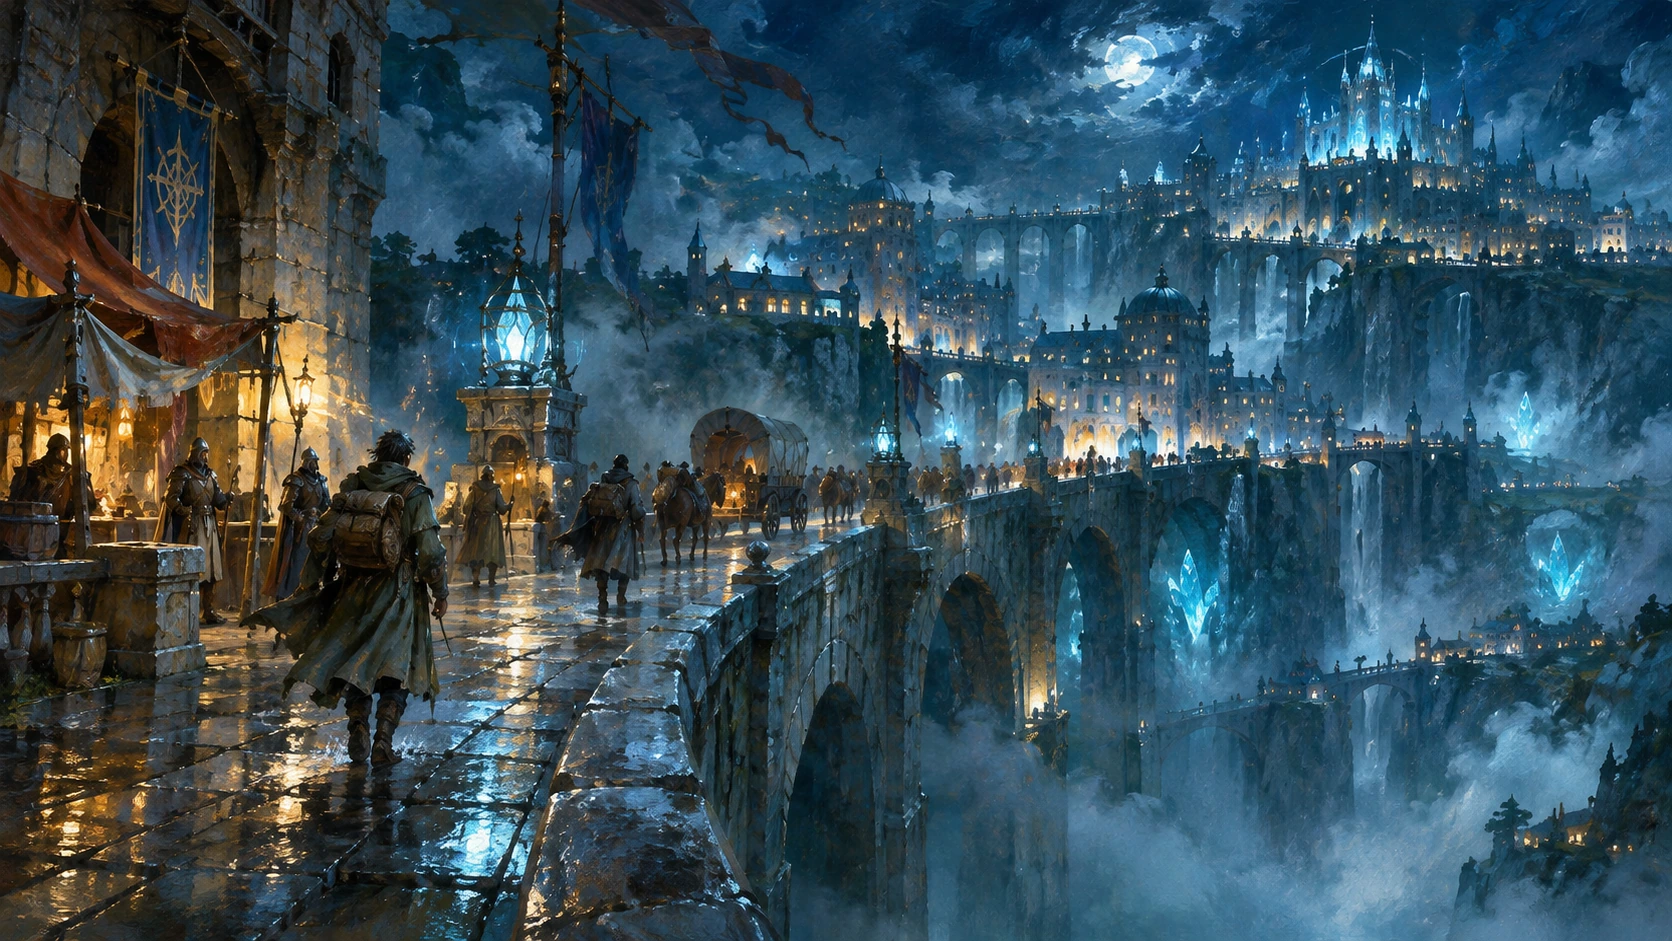
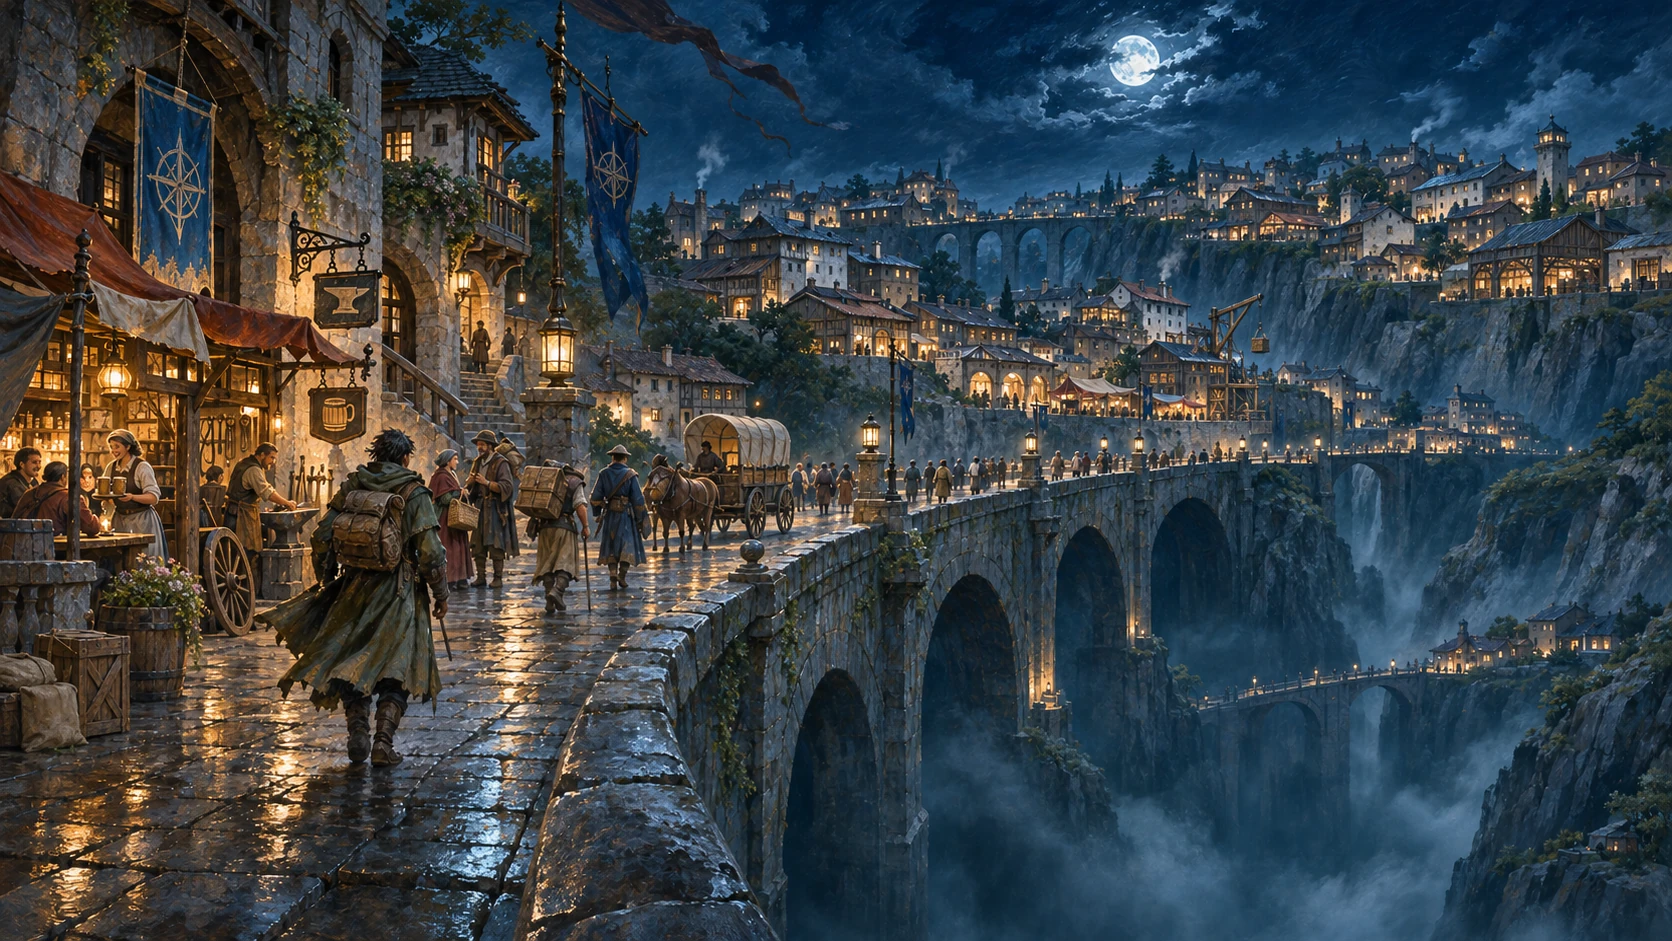
大断裂の街を、暮らしが見える同じ構図の昼夜対に描き直す

diff --git a/index.html b/index.html
@@ -46,7 +46,7 @@
 <div id="home-view" class="film-home">
 <div class="film-sequence"><div class="film-stage">
 <section class="film-frame film-montage-shot film-city-title" id="opening" data-film-scene="自由迷宮都市ルオスエン" tabindex="-1" aria-labelledby="film-opening-title">
-  <img class="film-image" src="assets/ruosuen-street-night-oil.webp" width="1672" height="941" alt="橋と街並み、魔導灯が裂谷の奥へ連なる自由迷宮都市ルオスエンの全景" fetchpriority="high" decoding="async">
+  <img class="film-image" src="assets/ruosuen-street-night-oil.webp" width="1672" height="941" alt="大断裂の谷を渡る夜の石橋。店先の灯り、旅人と荷車の往来、その先に幾世代もの建物が重なるルオスエン" fetchpriority="high" decoding="async">
   <div class="film-shot-shade" aria-hidden="true"></div>
   <div class="film-caption container" data-film-caption>
     <h1 class="film-title" id="film-opening-title"><span class="city-title-kind">自由迷宮都市</span><span class="city-title-name">ルオスエン</span></h1>

diff --git a/DESIGN.md b/DESIGN.md
@@ -215,6 +215,18 @@ Last revised: 2026-11-17
 
 ローカルChromiumの1440・390・320px幅で5つの短い場面と通常の縦読みを確認。1440・390px幅では、実際のスクロール距離が導入0.35倍・各フック0.5倍であること、12場面の順序、字幕、直接リンク、前後操作、作成ガイドへの遷移と既存の履歴操作をブラウザーテストで検証して成功。場面進行と距離変換の7テスト、構文・原稿参照検査も成功。実機スマートフォンは未検証。
 
+## 大断裂の街を同じ視点の昼夜で描く（2026-11-16）
+
+作者指定により、冒頭の夜景と「世界を知る」最終景を同じ視点・建物配置の昼夜の対へ更新した。川港は画面に含めず、従来の近景の街路から石橋、谷と奥の街並みへ視線が抜ける構図を維持する。
+
+- `assets/ruosuen-street-night-oil.webp`：崖や街の露出した魔石、巨大な王城、均一な白い建築を見直す。商店・宿・工房と多世代の建物、荷車や人の往来を、月光と窓・灯具の灯りで描く。高台は複数の建築が集まる街区とする。
+- `assets/reuna-turn-10.webp`：修正後の夜景を参照して制作した現在の昼景。橋、建物、岩壁、視点を揃え、自然光で暮らしや建物の質感を見せる。歴史上の別時代やCSSによる色変換ではない。
+- いずれも1672×941の原色WebP。絵は都市像の表現であり、未決の建築様式、建物の所属、街区の精密な地理を新たに確定しない。川港の設定や本文は維持する。
+
+原画と制作指示の要旨は[制作記録](notes/都市の昼夜対_画像制作_2026-11-16.md)を参照。
+
+検証：原稿・画像参照、JavaScript構文、場面進行テストが成功。ローカルChromiumの1440・390px幅で冒頭と最終景を目視し、昼夜の構図対応、画像の実寸・原色表示・横はみ出しなしを確認。既存の9場面・世界史10景・4章・履歴復元、動きを減らす設定、JavaScriptなしのブラウザ回帰も成功。外部フォントは明示的なシステム代替書体で検証。実機端末は未検証。
+
 ## Visual direction
 
 **The Uncharted World / 未踏の世界への招待状**. Reference: the theatrical urgency and strong character of Seikaisha's original *Red Dragon* special website, not its copyrighted artwork or layout.

diff --git a/notes/都市の昼夜対_画像制作_2026-11-16.md b/notes/都市の昼夜対_画像制作_2026-11-16.md
@@ -1,0 +1,19 @@
+# 大断裂の谷と街 — 昼夜対の画像制作
+
+2026-11-16。作者の指示に基づき、組み込みのimage_genで制作。原画は生成時の作業領域に保持し、Pagesには元の色と寸法を保ったWebPを配信する。建築・旗・人物・精密な街区配置は絵づくりの表現であり、未決の世界設定を採用する記録ではない。
+
+## 夜景
+
+- 配信：`assets/ruosuen-street-night-oil.webp`（1672×941）
+- 原画：`/workspace/generated_images/exec-caa5bb53-398d-4c3c-b7b2-3717d342960f.png`
+- 参照：変更前の`assets/ruosuen-street-night-oil.webp`。従来版はGit履歴に残る。
+- 制作指示の要旨：近景の商店と街路、中央から右奥へ続く石橋、大断裂の谷、重なる街並みの構図を維持。川港は描かない。露出した発光結晶を自然な岩肌に置換し、灯具も結晶形状を避ける。巨大王城を個別の商業・公共・居住建築が集まる街区へ変更。均一な白い建築、丸屋根、反復する尖塔を避け、多世代の石積み、漆喰、木造の増築、屋根に変化をつける。商店、酒場、工房、荷車、荷運び、住民、旅人を、月光と暖かな灯りの幻想画として描く。
+
+## 昼景
+
+- 配信：`assets/reuna-turn-10.webp`（1672×941）
+- 原画：`/workspace/generated_images/exec-32137d42-6090-429a-a7f2-3e25187bc9fa.png`
+- 参照：上記の修正後の夜景原画。
+- 制作指示の要旨：同じ現在の都市、同じ視点を日中へ描き直す。商店の看板、日除け、旗、橋のアーチ、岩壁、高台の建物、荷揚げ設備の配置を保持。月を除き、青空と自然な日光、陰影で建物と地質の質感を見せる。灯具は消灯し、街路には日中の人と荷車の往来を描く。河港、飛行船、王宮、結晶は追加しない。別の歴史時代や朝夕にはしない。
+
+圧縮はPillowのWebP、quality=90・method=6。原画の切り抜き、拡縮、色フィルターによる昼夜変換は行っていない。冒頭と世界史最終景のほか、同じ夜景を参照する既存の街角資料にも差し替えが反映される。

diff --git a/docs/01_プレイヤー向け世界観.md b/docs/01_プレイヤー向け世界観.md
@@ -92,7 +92,7 @@
 
 ### 街は、いまも育っている
 
-![現在の大都市ルオスエン。幾重もの橋と街並み、地上と地下を結ぶ港に人々が行き交い、新しい建築や仕事も続いている](../assets/reuna-turn-10.webp)
+![冒頭の夜景と同じ視点で見る、昼のルオスエン。大断裂の谷を渡る石橋に人と荷車が行き交い、店先や工房、建て重ねられた街並みが陽光に浮かぶ](../assets/reuna-turn-10.webp)
 
 > 開拓から幾世代もの時が流れた。港と街並みが広がり、**自由迷宮都市ルオスエン**は、多くの人と物が行き交う大きな都市になった。地下へ続く仕事は、いまも街を動かしている。
 >

diff --git a/docs/08_街角の風景.md b/docs/08_街角の風景.md
@@ -24,7 +24,7 @@
 
 ## 04｜夜の橋、帰還者たち — 油彩・夜景
 
-![月明かりと魔導灯の下で橋を渡る旅人と荷車。検問所の灯りと深い裂谷に続く青白い光](../assets/ruosuen-street-night-oil.webp)
+![月明かりの下で大断裂の谷を渡る旅人と荷車。酒場や工房の店先に灯りがともり、橋の向こうにも街並みが重なる](../assets/ruosuen-street-night-oil.webp)
 
 夜になっても、橋の往来は絶えません。警備の灯り、帰りを急ぐ荷車、静かに歩く探索者。足元の裂谷を見下ろすと、ずっと下に別の灯りが続いています。
 
